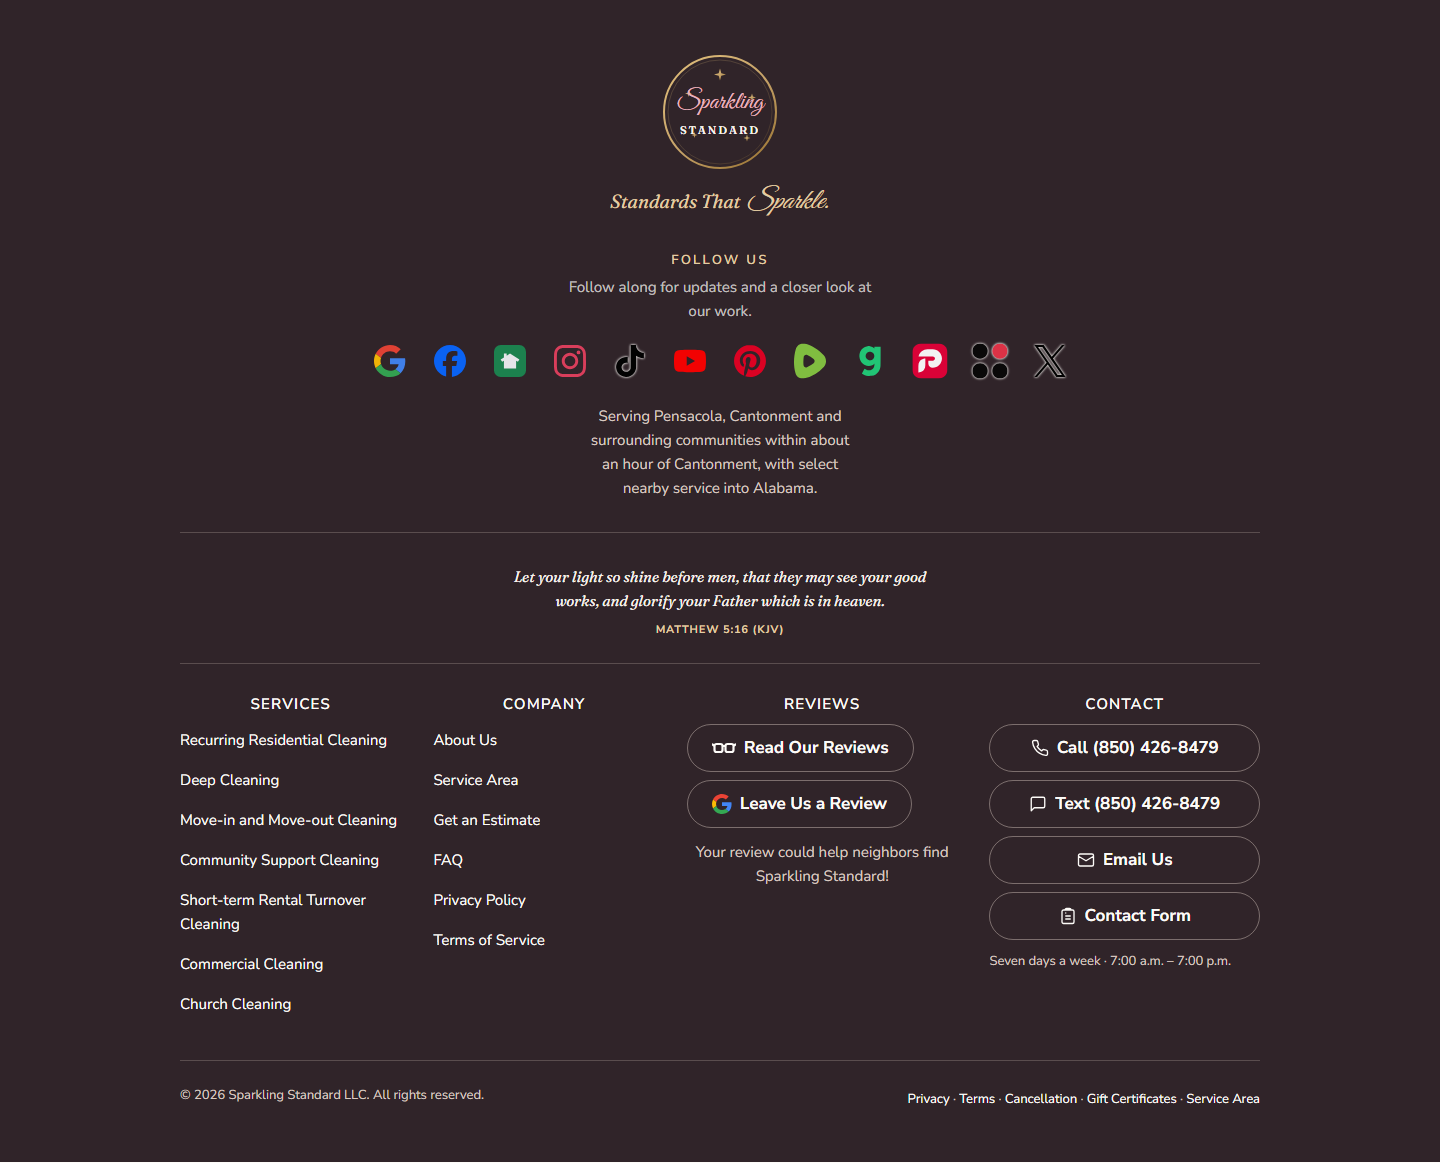
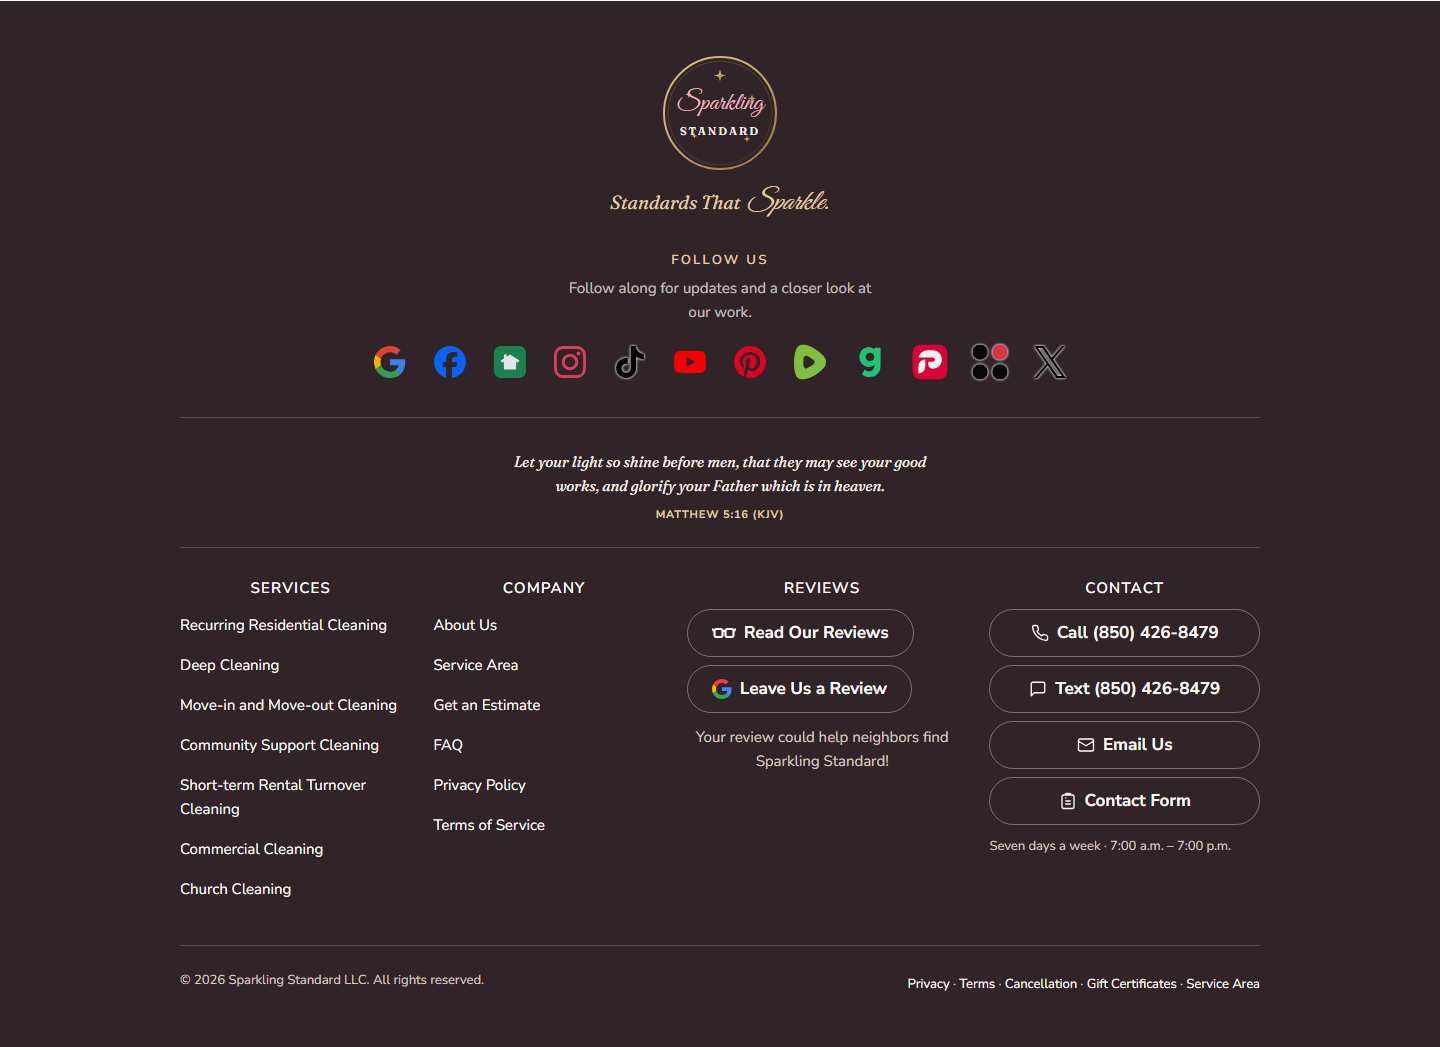
Record final review, footer and Tampa live verification

diff --git a/AGENTS.md b/AGENTS.md
@@ -84,23 +84,24 @@ Passing tests is a requirement, not proof of quality. UI changes need visual bro
   three inquiry key events verified; new church/promotion event receipt pending); SMS enabled (`business.flags.smsEnabled: true`, owner-verified); Stripe Pay Now live-mode readiness true with no live charge test performed; twelve active profiles rendering (Google Business Profile, Facebook, Nextdoor, Instagram, TikTok,
   YouTube, Pinterest, Rumble, Gab, Parler, Locals, X);
   owner-approved circular logo and regenerated favicon/PWA/social assets installed (2026-10-19).
-- **Current release (2026-11-20 two-branch foundation, verified reviews and Follow Us refinement):**
-  application code **`d70e656`** is live on `production-safe` (Cloudflare Pages production
-  deployment `f43f0984-9614-41f7-a23d-6761172e764d`). Migration `0040` (branch lifecycle,
-  branch-scoped immutable pricing and branch config versions) is applied to production D1 and
-  verified; `0038`/`0039` remain applied. Pensacola is live; Tampa Bay is setup/prelaunch and
-  cannot publish pricing or accept bookings. The owner has All/Pensacola/Tampa branch view,
-  Branches & Launch setup and per-branch pricing control; the B2B commercial/church launchpad is
-  in the Windows master workspace. The homepage now shows seven verified Google reviews
-  (Christina, Richard, Laura, Dennis, Amanda, Elizabeth, Rob & Christi) with the owner-supplied
-  5.0 / 10 profile total stated separately; Bob is excluded and K V / S Ismail remain unverified
-  because Google hides their full text from signed-out viewers. The footer Follow Us section is
-  a boxless integrated row of twelve official marks on transparent 44px targets. CI
-  `validate` and `browser` pass; local suite 906 tests (905 pass, 1 pre-existing skip) and 226
-  browser tests pass. No live charge, refund, customer email, legal execution or production
-  customer record change was performed. Evidence:
-  `docs/verification/2026-11-20-TWO-BRANCH-B2B.md` and
-  `docs/verification/2026-11-20-REVIEWS-FOOTER.md`.
+- **Current release (2026-11-20 master directive: reviews, photos, footer and Tampa inquiries):**
+  application code **`1d7c997`** is live on `production-safe` (Cloudflare Pages production
+  deployment `c6469de6-bf79-407c-a2a4-3f54c4051d35`). Migration `0040` remains applied and
+  verified; Pensacola is live and Tampa Bay is setup/prelaunch. The owner-approved review set is
+  now **Christina, Richard, Laura, Dennis D, K V, S Ismail and Rob & Christi Moore**; Bob, Amanda
+  and Elizabeth are excluded. K V and S Ismail use the exact owner-supplied text, and K V's
+  "bi-monthly" wording is preserved. Dennis's two couch photographs and Laura's shower photograph
+  are restored from the public Google review. The former rating/count summary and the footer
+  service-area paragraph were removed. Follow Us remains twelve transparent 44px official marks.
+  Tampa Bay now has a premium public page and a branch-assigned inquiry form that creates a Tampa
+  lead but no booking, quote or payment; the page remains noindex until launch gates pass.
+  Capability flags for marketing, inquiries, commercial leads, estimates, scheduling, payments,
+  fulfillment and Google profile are code-owned in `src/config/branches.ts`. The B2B launchpad
+  and separate Pensacola/Tampa operations workspaces are in the Windows master. CI `validate`
+  and `browser` pass; local suite **907 tests (906 pass, 1 pre-existing skip)** and **228 browser
+  tests** pass. No live charge, refund, customer email, legal execution or production customer
+  record change was performed. Evidence: `docs/verification/2026-11-20-REVIEWS-FOOTER.md`,
+  `docs/operations/TAMPA-BAY-LAUNCH.md`, `docs/verification/2026-11-20-TWO-BRANCH-B2B.md`.
 - **Prior release (2026-11-19 production activation and admin address autocomplete):** application
   code **`019fad6`** remains in production history (Cloudflare Pages deployment
   `f890914f-32fc-4691-9557-009214a9e380`). It applied migrations `0038`/`0039`, added Google

diff --git a/docs/verification/VERIFICATION.md b/docs/verification/VERIFICATION.md
@@ -2,12 +2,12 @@
 
 ## Reviews, photographs, footer and Tampa inquiry corrections - 2026-11-20
 
-The owner-approved carousel now displays seven reviews: Christina, Richard, Laura, Dennis D, K V, S Ismail and Rob & Christi Moore. Bob, Amanda and Elizabeth are excluded. The exact owner-supplied K V and S Ismail text is included, with K V's "bi-monthly" wording preserved. Dennis's two couch photographs and Laura's shower photograph were restored from the public Google review. The former rating/count summary and footer service-area paragraph were removed. Follow Us remains twelve transparent 44px official marks with no white circles. Tampa Bay now has a premium public page with a dedicated branch-assigned inquiry form; it creates a Tampa lead but no booking, quote or payment, and the page remains noindex until launch gates pass. Unit suite 907 (906 pass, one pre-existing skip); 228 browser tests pass. Screenshots: `docs/verification/2026-11-20-reviews-footer/`. Full detail: [`2026-11-20-REVIEWS-FOOTER.md`](2026-11-20-REVIEWS-FOOTER.md).
+The owner-approved carousel now displays seven reviews: Christina, Richard, Laura, Dennis D, K V, S Ismail and Rob & Christi Moore. Bob, Amanda and Elizabeth are excluded. The exact owner-supplied K V and S Ismail text is included, with K V's "bi-monthly" wording preserved. Dennis's two couch photographs and Laura's shower photograph were restored from the public Google review. The former rating/count summary and footer service-area paragraph were removed. Follow Us remains twelve transparent 44px official marks with no white circles. Tampa Bay now has a premium public page with a dedicated branch-assigned inquiry form; it creates a Tampa lead but no booking, quote or payment, and the page remains noindex until launch gates pass. Unit suite 907 (906 pass, one pre-existing skip); 228 browser tests pass. Application code `1d7c997` is live in Cloudflare Pages deployment `c6469de6-bf79-407c-a2a4-3f54c4051d35`. Screenshots: `docs/verification/2026-11-20-reviews-footer/`. Full detail: [`2026-11-20-REVIEWS-FOOTER.md`](2026-11-20-REVIEWS-FOOTER.md).
 
 
 ## Two-branch topology and B2B launchpad - 2026-11-20
 
-Migration `0040` adds branch lifecycle/configuration and per-branch immutable pricing versions. Production D1 was backed up and verified before application; Pensacola remains live and Tampa Bay remains setup/prelaunch. The owner gained a server-scoped All/Pensacola/Tampa view, Branches & Launch setup and branch-specific pricing control. Public `/locations/pensacola/` is indexable; `/locations/tampa-bay/` is noindex and excluded from the sitemap. The commercial/institutional campaign launchpad was generated in the Windows master workspace with six print-ready Pensacola one-pagers, scripts, checklists, pipeline and 30/60/90 plan. Full unit suite 906 (905 pass, one pre-existing skip); 226 browser tests pass. Migrations and deployment are live. Full detail: [`2026-11-20-TWO-BRANCH-B2B.md`](2026-11-20-TWO-BRANCH-B2B.md).
+Migration `0040` adds branch lifecycle/configuration and per-branch immutable pricing versions. Production D1 was backed up and verified before application; Pensacola remains live and Tampa Bay remains setup/prelaunch. The owner gained a server-scoped All/Pensacola/Tampa view, Branches & Launch setup and branch-specific pricing control. Public `/locations/pensacola/` is indexable; `/locations/tampa-bay/` is noindex and excluded from the sitemap. The commercial/institutional campaign launchpad was generated in the Windows master workspace with six print-ready Pensacola one-pagers, scripts, checklists, pipeline and 30/60/90 plan. Full unit suite 907 (906 pass, one pre-existing skip); 228 browser tests pass. Migrations and deployment are live. Full detail: [`2026-11-20-TWO-BRANCH-B2B.md`](2026-11-20-TWO-BRANCH-B2B.md).
 
 ## Production activation and admin address autocomplete - 2026-11-19
 

diff --git a/docs/verification/2026-11-20-TWO-BRANCH-B2B.md b/docs/verification/2026-11-20-TWO-BRANCH-B2B.md
@@ -55,8 +55,8 @@
 - `tests/branch-topology.test.ts`: 4 pass.
 - `tests/pricing-control.test.ts`: 11 pass.
 - `tests/admin.test.ts`: 40 pass.
-- Full unit suite: **906 tests, 905 pass, 1 pre-existing skip, 0 fail**.
-- Browser suite: **225 pass** (after the admin phone overflow repair).
+- Full unit suite: **907 tests, 906 pass, 1 pre-existing skip, 0 fail**.
+- Browser suite: **228 pass** (after the admin phone overflow repair).
 - `astro check`: 0 errors, 0 warnings, 2 pre-existing hints.
 - Build: 37 pages.
 - `npm run validate`: pass (2331 internal links, SEO, QR, GTM, checklist).
@@ -84,8 +84,8 @@
 
 ## Production deployment
 
-- Application code: `d70e656`.
-- Cloudflare Pages production deployment: `f43f0984-9614-41f7-a23d-6761172e764d`.
+- Application code: `1d7c997`.
+- Cloudflare Pages production deployment: `c6469de6-bf79-407c-a2a4-3f54c4051d35`.
 - Migration `0040` was applied to production D1 after the verified pre-migration
   backup and before this deployment.
 - Live checks: `/locations/pensacola/` returns 200 and is in the sitemap;
@@ -93,3 +93,7 @@
   from the sitemap; unauthenticated `/api/admin/branches` returns 401;
   `/api/pricing?branch=branch_tampa` returns 404.
 - CI `validate` and `browser` pass.
+
+## Tampa Bay public inquiry addition
+
+The same production release also replaces the Tampa technical prelaunch page with a premium regional page and a dedicated inquiry form. It captures residential, commercial, church/facility, property-management, STR and realtor interest plus the service address. The server persists the inquiry to `branch_tampa` and creates no booking, quote or payment. Tampa remains noindex and not publicly bookable. See `docs/operations/TAMPA-BAY-LAUNCH.md` and `docs/verification/2026-11-20-REVIEWS-FOOTER.md`.

diff --git a/docs/verification/2026-11-20-REVIEWS-FOOTER.md b/docs/verification/2026-11-20-REVIEWS-FOOTER.md
@@ -102,3 +102,34 @@ Final local captures:
 - Unit: **907 tests, 906 pass, 1 pre-existing skip, 0 fail**.
 - Browser: **228 pass, 0 fail**.
 - Targeted review/footer/Tampa tests: 16 pass.
+
+## Production deployment
+
+- Application code: `1d7c997`.
+- Cloudflare Pages production deployment: `c6469de6-bf79-407c-a2a4-3f54c4051d35`.
+- CI `validate` and `browser`: pass.
+
+Live verification at https://sparkling-standard.com:
+
+- 7 review cards render in the order Christina, Richard, Laura, Dennis D, K V,
+  S Ismail, Rob & Christi Moore.
+- No rating/count summary or selected-view disclaimer appears under the heading.
+- Bob, Amanda and Elizabeth are absent.
+- Dennis's two couch photos and Laura's shower photo load from the production
+  image pipeline (320x480 and 320x240 rendered WebP variants).
+- 12 Follow Us links render with 44 x 44 px transparent targets, 0px border
+  and 0px radius.
+- The footer service-area paragraph is absent.
+- Tampa page loads with no delivery warning; `/api/lead-readiness` reports
+  `ready: true`.
+- Tampa remains `noindex, nofollow` and absent from the sitemap.
+- Service-area page shows two branch cards.
+- Screenshots: `live-reviews-desktop.png`, `live-reviews-dennis-desktop.png`,
+  `live-reviews-dennis-mobile.png`, `live-footer-desktop.png`,
+  `live-footer-mobile.png`, `live-service-area-desktop.png`,
+  `live-tampa-page-desktop.png`, `live-tampa-page-mobile.png`.
+
+## Remaining
+
+No review text or photograph is missing from the owner-approved seven. Bob,
+Amanda and Elizabeth remain excluded by instruction.
